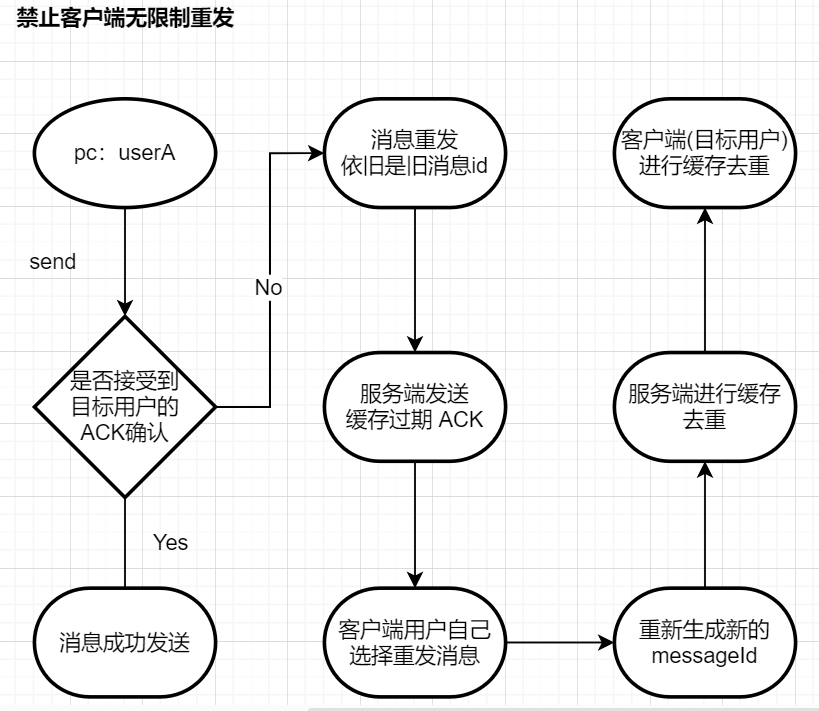
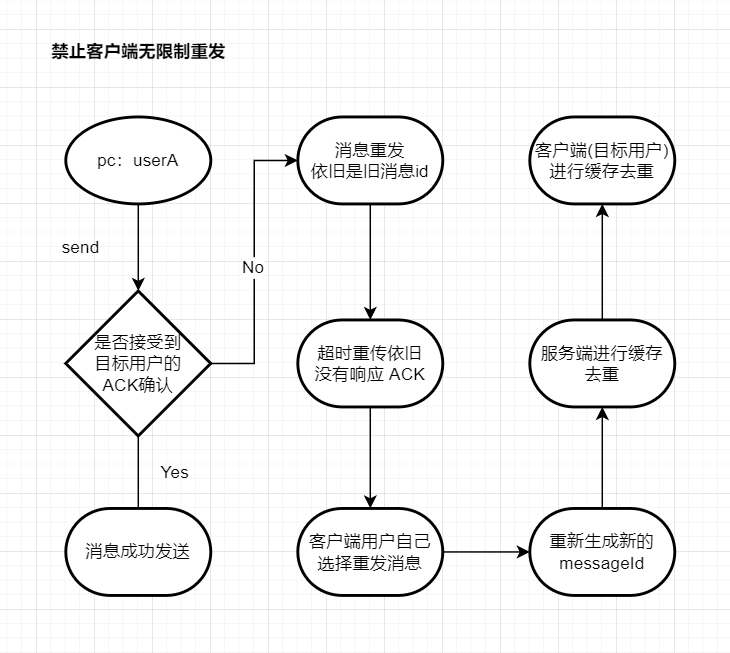
修改幂等性逻辑，通过 ttl 判断当前缓存是否过期

diff --git a/im-domain/src/main/java/com/bantanger/im/domain/message/service/GroupMessageService.java b/im-domain/src/main/java/com/bantanger/im/domain/message/service/GroupMessageService.java
@@ -77,7 +77,8 @@ public class GroupMessageService {
         String messageCacheByMessageId = messageStoreServiceImpl.getMessageCacheByMessageId(messageContent.getAppId(), messageContent.getMessageId());
         if (messageCacheByMessageId.equals(MessageErrorCode.MESSAGE_CACHE_EXPIRE.getError())) {
             // 说明缓存过期，服务端向客户端发送 ack 要求客户端重新生成 messageId
-            ack(messageContent, ResponseVO.errorResponse(MessageErrorCode.MESSAGE_CACHE_EXPIRE));
+            // 不做处理。直到客户端计时器超时
+            return ;
         }
         GroupChatMessageContent messageCache = JSON.parseObject(messageCacheByMessageId, GroupChatMessageContent.class);
         if (messageCache != null) {

diff --git a/im-domain/src/main/java/com/bantanger/im/domain/message/service/P2PMessageService.java b/im-domain/src/main/java/com/bantanger/im/domain/message/service/P2PMessageService.java
@@ -74,7 +74,8 @@ public class P2PMessageService {
         String messageCacheByMessageId = messageStoreServiceImpl.getMessageCacheByMessageId(messageContent.getAppId(), messageContent.getMessageId());
         if (messageCacheByMessageId.equals(MessageErrorCode.MESSAGE_CACHE_EXPIRE.getError())) {
             // 说明缓存过期，服务端向客户端发送 ack 要求客户端重新生成 messageId
-            ack(messageContent, ResponseVO.errorResponse(MessageErrorCode.MESSAGE_CACHE_EXPIRE));
+            // 不做处理。直到客户端计时器超时
+            return ;
         }
         MessageContent messageCache = JSON.parseObject(messageCacheByMessageId, MessageContent.class);
         if (messageCache != null){
